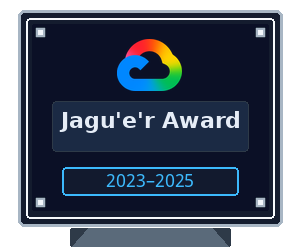
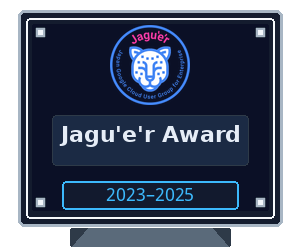
Jagu'e'rをGoogle Cloud行へ公式マークにする

Changed region(s): [[0.15, 0.0847, 0.84, 0.8468]]

diff --git a/scripts/generate-lower-cards.py b/scripts/generate-lower-cards.py
@@ -204,6 +204,7 @@ def write_plaque_png(
     logo: Image.Image,
     name_lines: list[str] | None,
     years: str,
+    logo_max: tuple[int, int] = LOGO_MAX,
 ) -> None:
     img = Image.new("RGBA", (PLAQUE_W, PLAQUE_H), (0, 0, 0, 0))
     draw = ImageDraw.Draw(img, "RGBA")
@@ -211,7 +212,7 @@ def write_plaque_png(
     name_font = ImageFont.truetype(BOLD_FONT, 22)
     year_latin = ImageFont.truetype(BOLD_FONT, 18)
     year_cjk = ImageFont.truetype(CJK_FONT, 18)
-    logo = fit_contain(logo, *LOGO_MAX)
+    logo = fit_contain(logo, *logo_max)
     name_h = nameplate_size(name_lines)[1] if name_lines else 0
     gap_logo = 10 if name_lines else NAME_GAP
     total = logo.height + gap_logo + YEAR_H
@@ -285,11 +286,14 @@ def write_all_cert_holders() -> None:
 
 
 def write_jaguer() -> None:
+    # Official Jagu'e'r mark (no standalone Award logo on jaguer.jp / Award 2025 / connpass):
+    # https://jaguer.jp/wp-content/uploads/2021/03/jaguer_circle3.png
     write_plaque_png(
         AWARDS / "jaguer.png",
-        Image.open(GCP_2026),
+        Image.open(AWARDS / "jaguer-circle.png"),
         ["Jagu'e'r Award"],
         "2023–2025",
+        logo_max=(96, 80),
     )
 
 
@@ -574,6 +578,7 @@ def main() -> None:
     for name in (
         "pte-20251104-rgb-nega-1.png",
         "pte-20251104-rgb-nega-2.png",
+        "jaguer-circle.png",
     ):
         src = PACK / name
         if src.exists():

diff --git a/README.md b/README.md
@@ -43,17 +43,11 @@ Jr. Champion：<a href="https://aws.amazon.com/jp/blogs/psa/2023-japan-aws-jr-ch
 <div align="center">
 <a href="https://cloud.google.com/blog/ja/topics/partners/announcing-the-winners-of-the-google-cloud-partner-top-engineer-2026-award-program?hl=ja"><img src="./public/images/awards/gcp-pte.png" width="150" alt="Partner Top Engineer, 2023–2026" /></a>
 <a href="https://cloud.google.com/blog/ja/topics/partners/google-cloud-partner-all-certification-holders-2025?hl=ja"><img src="./public/images/awards/gcp-all-cert-holders-2025.png" width="150" alt="Google Cloud Partner All Certification Holders 2025" /></a>
-</div>
-<p align="center">
-Partner Top Engineer：<a href="https://cloud.google.com/blog/ja/topics/partners/partner-top-engineer-2023-award-winners?hl=ja">2023</a> · <a href="https://cloud.google.com/blog/ja/topics/partners/partner-top-engineer-2024-award-winners?hl=ja">2024</a> · <a href="https://cloud.google.com/blog/ja/topics/partners/partner-top-engineer-2025-award-winners?hl=ja">2025</a>（Build / General）· <a href="https://cloud.google.com/blog/ja/topics/partners/announcing-the-winners-of-the-google-cloud-partner-top-engineer-2026-award-program?hl=ja">2026</a>（Serverless）<br />
-All Certification Holders：<a href="https://cloud.google.com/blog/ja/topics/partners/google-cloud-partner-all-certification-holders-2025?hl=ja">2025</a>
-</p>
-
-<h3 align="center">Jagu'e'r</h3>
-<div align="center">
 <img src="./public/images/awards/jaguer.png" width="150" alt="Jagu'e'r Award, 2023–2025" />
 </div>
 <p align="center">
+Partner Top Engineer：<a href="https://cloud.google.com/blog/ja/topics/partners/partner-top-engineer-2023-award-winners?hl=ja">2023</a> · <a href="https://cloud.google.com/blog/ja/topics/partners/partner-top-engineer-2024-award-winners?hl=ja">2024</a> · <a href="https://cloud.google.com/blog/ja/topics/partners/partner-top-engineer-2025-award-winners?hl=ja">2025</a>（Build / General）· <a href="https://cloud.google.com/blog/ja/topics/partners/announcing-the-winners-of-the-google-cloud-partner-top-engineer-2026-award-program?hl=ja">2026</a>（Serverless）<br />
+All Certification Holders：<a href="https://cloud.google.com/blog/ja/topics/partners/google-cloud-partner-all-certification-holders-2025?hl=ja">2025</a><br />
 Jagu'e'r Award：2023 Excellent · 2024 Excellent · 2025 Grand Prize
 </p>
 
